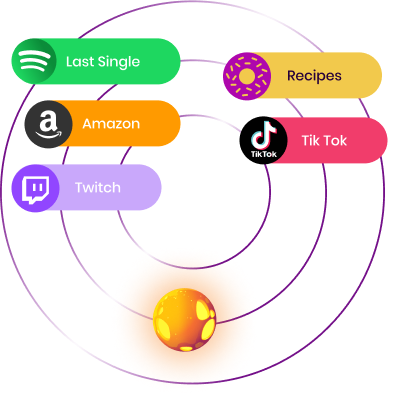
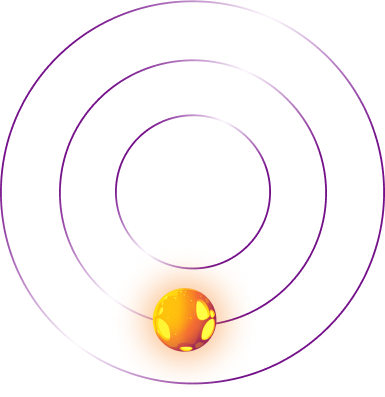
Increase Visits Section

diff --git a/src/components/IncreaseVisitsSection.js b/src/components/IncreaseVisitsSection.js
@@ -1,0 +1,79 @@
+import DesktopSectionBackground from '../assets/DesktopSectionBackground.png'
+import Image3 from '../assets/Image3.png'
+import SpotifyImg from '../assets/SpotifyImg.png'
+import AmazonImg from '../assets/AmazonImg.png'
+import Twitch from '../assets/Twitch.png'
+import Recipe from '../assets/Recipe.png'
+import TiktokImg from '../assets/TiktokImg.png'
+
+const IncreaseVisitsSection = () => {
+	return (
+		<div className="increase_visits_section">
+			<div className="left">
+				<h2>Aumenta tus visitas y brilla más que nadie.</h2>
+				<p>
+					Guía a tus seguidores hacia tu información de contacto y tus redes.
+					<br /> Cuéntales lo que quieras sobre ti y expande tu universo.
+				</p>
+			</div>
+			<div className="right">
+				<div className="background_container">
+					<img src={Image3} alt="img3" />
+				</div>
+
+				<div className="links">
+					<div className="left">
+						<div className="last_single">
+							<button>
+								<div className="img_container">
+									<img src={SpotifyImg} alt="SpotifyImg" />
+								</div>
+								<span>Last Single</span>
+							</button>
+						</div>
+						<div className="amazon">
+							<button>
+								<div className="img_container">
+									<img src={AmazonImg} alt="SpotifyImg" />
+								</div>
+								<span>Amazon</span>
+							</button>
+						</div>
+						<div className="twitch">
+							<button>
+								<div className="img_container">
+									<img src={Twitch} alt="SpotifyImg" />
+								</div>
+								<span>Twitch</span>
+							</button>
+						</div>
+					</div>
+
+					<div className="right">
+						<div className="recipes">
+							<button>
+								<div className="img_container">
+									<img src={Recipe} alt="SpotifyImg" />
+								</div>
+								<span>Recipes</span>
+							</button>
+						</div>
+						<div className="tiktok">
+							<button>
+								<div className="img_container">
+									<img src={TiktokImg} alt="SpotifyImg" />
+								</div>
+								<span>Tiktok</span>
+							</button>
+						</div>
+					</div>
+				</div>
+			</div>
+			<div className="background_img">
+				<img src={DesktopSectionBackground} alt="DesktopSectionBackground" />
+			</div>
+		</div>
+	)
+}
+
+export default IncreaseVisitsSection

diff --git a/src/styles/components/_IncreaseVisitsSection.scss b/src/styles/components/_IncreaseVisitsSection.scss
@@ -1,0 +1,140 @@
+.increase_visits_section {
+	display: flex;
+	gap: 140px;
+	justify-content: center;
+	align-items: center;
+	position: relative;
+	padding: 50px 0;
+
+	.left {
+		max-width: 410px;
+	}
+
+	.right {
+		position: relative;
+
+		.background_container {
+			width: 400px;
+			height: 400px;
+
+			img {
+				width: 100%;
+				height: 100%;
+			}
+		}
+
+		.links {
+			z-index: 99;
+			width: 100%;
+			position: absolute;
+			top: 50px;
+			display: flex;
+			justify-content: space-between;
+
+			.left {
+				.last_single {
+					button {
+						background: #1ed760;
+					}
+				}
+
+				.amazon {
+					margin-top: 30px;
+					margin-left: 30px;
+					button {
+						background: #ff9a00;
+					}
+				}
+
+				.twitch {
+					margin-top: 30px;
+					button {
+						background: #c9a8fb;
+					}
+				}
+			}
+
+			.right {
+				.recipes {
+					margin-top: 20px;
+
+					button {
+						background: #f2c94c;
+					}
+
+					.img_container {
+						background: transparent;
+					}
+				}
+
+				.tiktok {
+					margin-left: 20px;
+					margin-top: 30px;
+
+					button {
+						background: #f13d6b;
+					}
+				}
+			}
+
+			button {
+				cursor: pointer;
+				position: relative;
+				height: 48px;
+				padding: 13px 40px;
+				border-radius: 40px;
+				border: none;
+
+				.img_container {
+					background: #fff;
+					position: absolute;
+					top: -1px;
+					left: -2px;
+					border-radius: 40px;
+					width: 50px;
+					height: 50px;
+
+					img {
+						width: 100%;
+						height: 100%;
+						object-fit: cover;
+					}
+				}
+
+				span {
+					margin-left: 20px;
+					color: #ffffff;
+					font-weight: 500;
+					font-size: 14px;
+				}
+			}
+		}
+	}
+}
+
+@include tablet-screen {
+	.increase_visits_section {
+		flex-direction: column;
+		gap: 10px;
+		padding: 50px 20px;
+
+		.left {
+			text-align: center;
+			max-width: 410px;
+		}
+
+		.right {
+			.background_container {
+				img {
+					object-fit: cover;
+				}
+			}
+
+			.links {
+				flex-direction: column;
+				align-items: center;
+				gap: 10px;
+			}
+		}
+	}
+}

diff --git a/src/styles/base/_base.scss b/src/styles/base/_base.scss
@@ -11,3 +11,61 @@
 	background: #28023b;
 	// min-height: 100vh;
 }
+
+h2 {
+	font-weight: 600;
+	font-size: 26px;
+	line-height: 130%;
+	letter-spacing: 0.03em;
+	color: #ffffff;
+}
+
+p {
+	margin-top: 15px;
+	font-weight: 300;
+	font-size: 16px;
+	line-height: 140%;
+	color: #ffffff;
+}
+
+.background_img {
+	width: 55%;
+	height: 100%;
+	position: absolute;
+	right: 0;
+	top: 0;
+
+	img {
+		width: 100%;
+		height: 100%;
+		object-fit: cover;
+	}
+}
+
+@include tablet-screen {
+	h2 {
+		font-weight: 600;
+		font-size: 24px;
+		line-height: 130%;
+		letter-spacing: 0.03em;
+		color: #ffffff;
+	}
+
+	p {
+		margin-top: 12px;
+		font-size: 14px;
+	}
+
+	.background_img {
+		width: 100%;
+		height: 100%;
+		position: absolute;
+		right: 0;
+
+		img {
+			width: 100%;
+			height: 100%;
+			object-fit: cover;
+		}
+	}
+}

diff --git a/src/styles/components/_SeeGallerySection.scss b/src/styles/components/_SeeGallerySection.scss
@@ -6,22 +6,6 @@
 	padding: 20px 0;
 
 	.right {
-		h2 {
-			font-weight: 600;
-			font-size: 26px;
-			line-height: 130%;
-			letter-spacing: 0.03em;
-			color: #ffffff;
-		}
-
-		p {
-			margin-top: 15px;
-			font-weight: 300;
-			font-size: 16px;
-			line-height: 140%;
-			color: #ffffff;
-		}
-
 		.points_row {
 			margin-top: 25px;
 			gap: 50px;
@@ -82,16 +66,6 @@
 		text-align: center;
 
 		.right {
-			h2 {
-				font-size: 24px;
-			}
-
-			p {
-				margin-top: 12px;
-				font-weight: 300;
-				font-size: 14px;
-			}
-
 			.points_row {
 				margin-top: 20px;
 				gap: 20px;

diff --git a/src/styles/components/_CreateAccountSection.scss b/src/styles/components/_CreateAccountSection.scss
@@ -74,19 +74,6 @@
 			object-fit: cover;
 		}
 	}
-
-	.background_img {
-		width: 55%;
-		height: 100%;
-		position: absolute;
-		right: 0;
-
-		img {
-			width: 100%;
-			height: 100%;
-			object-fit: cover;
-		}
-	}
 }
 
 @include tablet-screen {
@@ -128,19 +115,6 @@
 			img {
 				max-height: 430px;
 				width: 100%;
-				object-fit: cover;
-			}
-		}
-
-		.background_img {
-			width: 100%;
-			height: 100%;
-			position: absolute;
-			right: 0;
-
-			img {
-				width: 100%;
-				height: 100%;
 				object-fit: cover;
 			}
 		}

diff --git a/src/App.js b/src/App.js
@@ -1,6 +1,7 @@
 import Navbar from './components/Navbar'
 import CreateAccountSection from './components/CreateAccountSection'
 import SeeGallerySection from './components/SeeGallerySection'
+import IncreaseVisitsSection from './components/IncreaseVisitsSection'
 
 function App() {
 	return (
@@ -8,6 +9,7 @@ function App() {
 			<Navbar />
 			<CreateAccountSection /> {/* Section 1 */}
 			<SeeGallerySection /> {/* Section 2 */}
+			<IncreaseVisitsSection /> {/* Section 3 */}
 		</div>
 	)
 }

diff --git a/src/styles/components/_components.scss b/src/styles/components/_components.scss
@@ -1,3 +1,4 @@
 @import './Navbar';
 @import './CreateAccountSection';
 @import './SeeGallerySection';
+@import './IncreaseVisitsSection';
